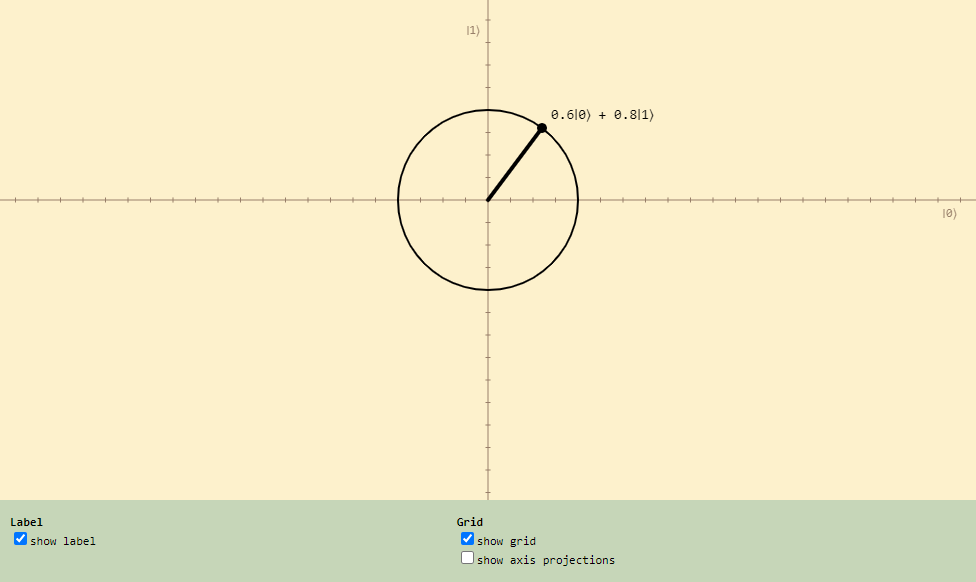
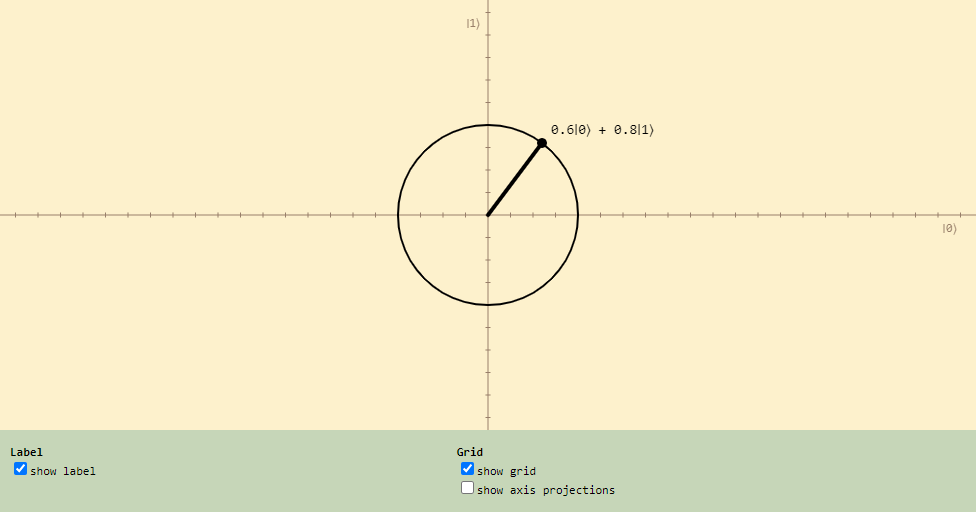
minor adjustments

diff --git a/sketches/presentation/2_realCircle_as_complexCircle_instance/sketch.js b/sketches/presentation/2_realCircle_as_complexCircle_instance/sketch.js
@@ -9,7 +9,7 @@ let sketch = function (p) {
 
   // canvas dimensions
   let canvasMinWidth = 640;
-  let canvasHeight = 500;
+  let canvasHeight = 430;
 
   // unit circle parameters
   // let c;
@@ -34,7 +34,7 @@ let sketch = function (p) {
     c = new UnitCircle(p);
 
     cx = p.width / 2;
-    cy = p.height * 0.4;
+    cy = p.height / 2;
     c.setCenter(cx, cy);
 
     // Set interesting initial value

diff --git a/sketches/README.md b/sketches/README.md
@@ -2,7 +2,7 @@ Very roughly organized at the moment.
 In the future, this will need to be cleaned up.
 
 Folders:
-- `presenation`
+- `presentation`
     - polished sketches. Represent checkpoints / culminations...
 - `playground`
     - prototypes etc.
